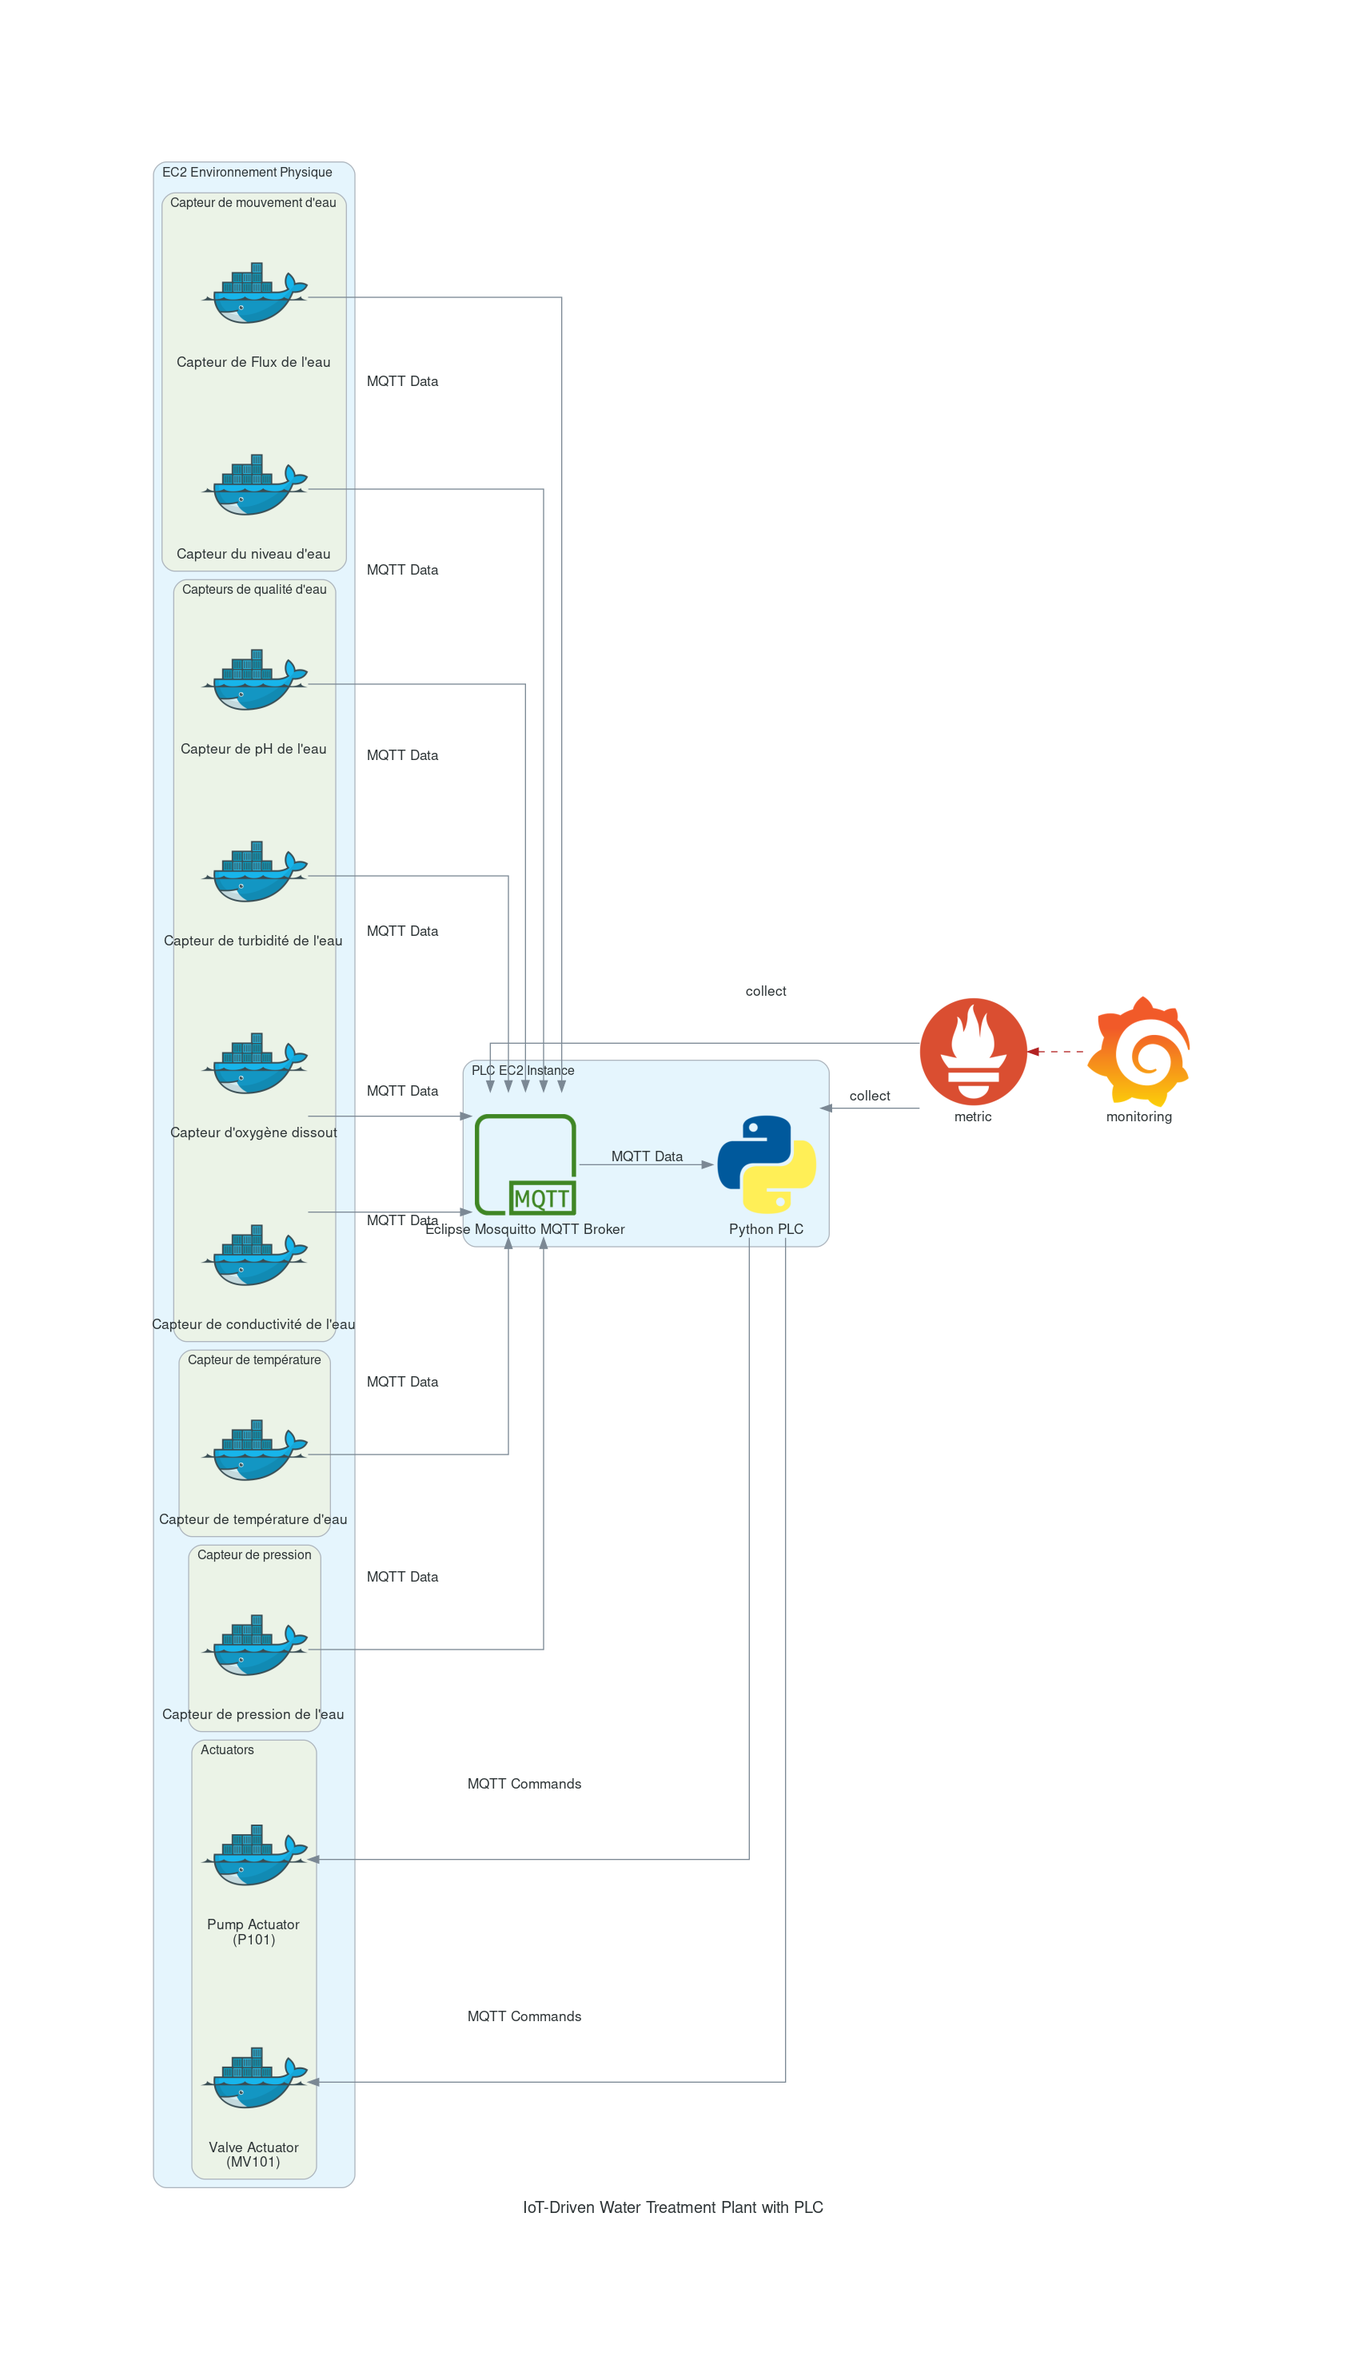
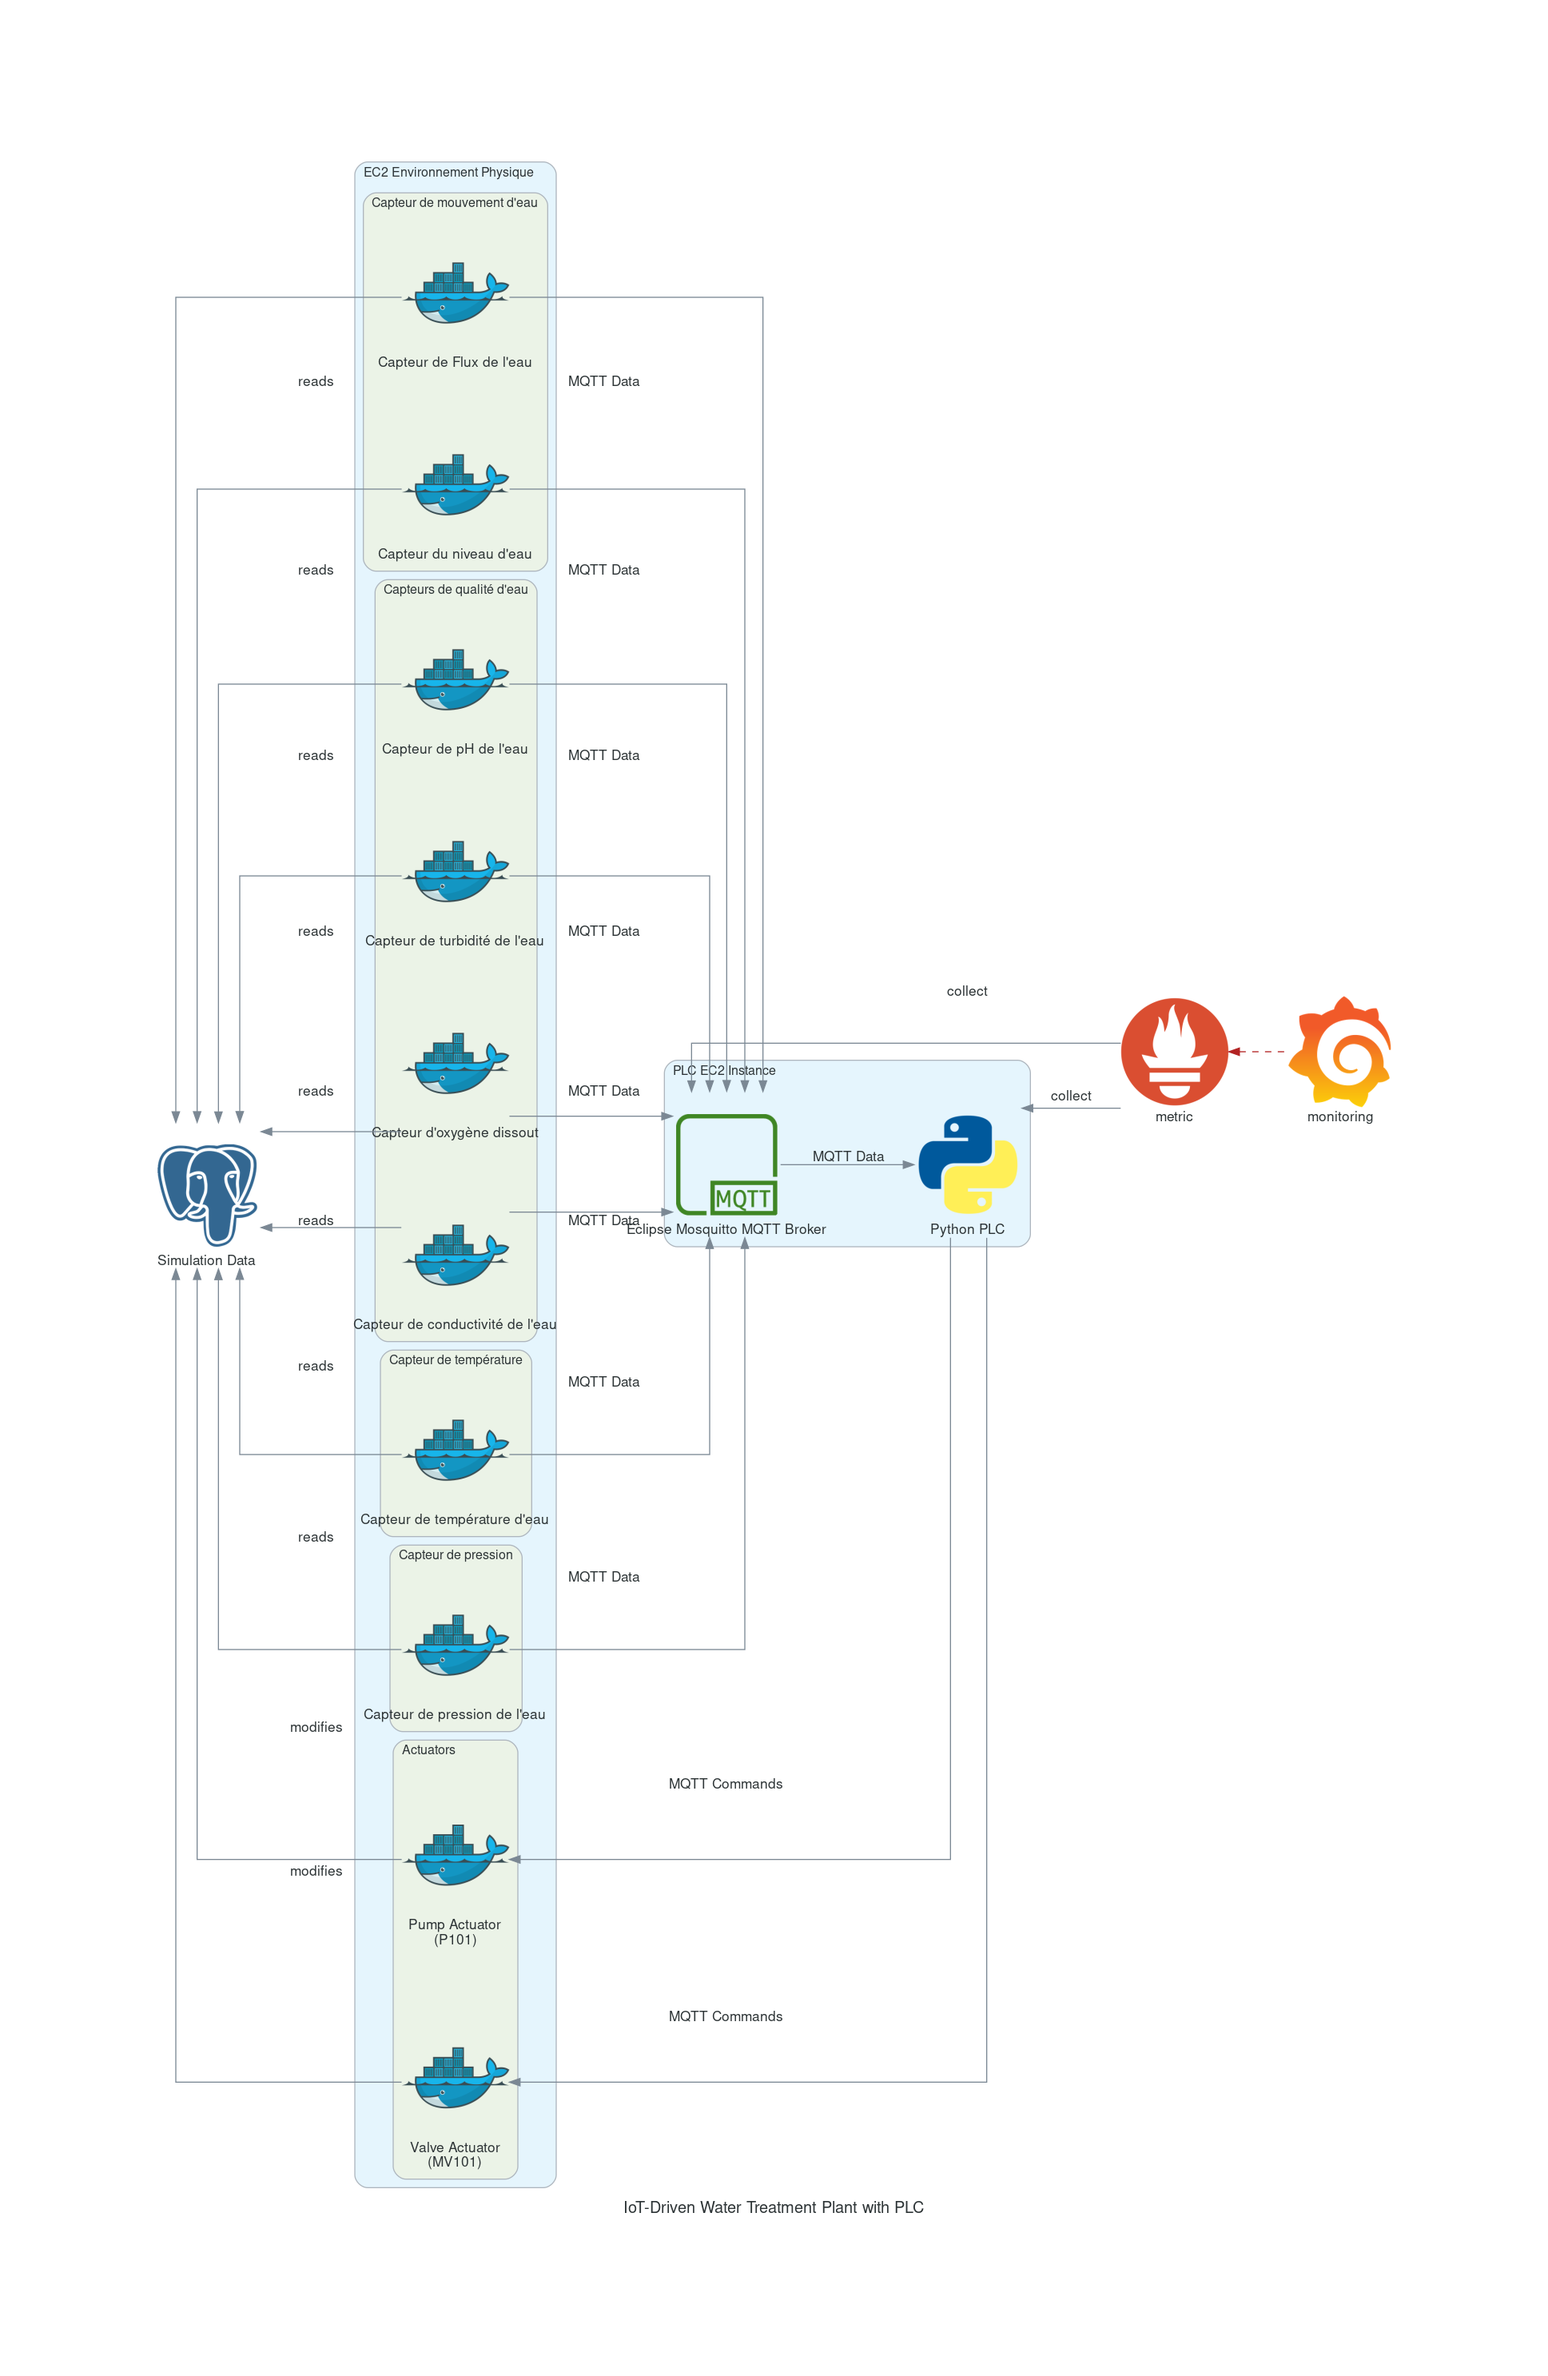
lol

Changed region(s): [[0.0926, 0.0619, 0.895, 0.9284], [0.4012, 0.2166, 0.432, 0.2476]]

diff --git a/diagrams/diagram.py b/diagrams/diagram.py
@@ -5,11 +5,14 @@ from diagrams.aws.iot import IotMqtt
 from diagrams.aws.network import VPC
 from diagrams.programming.language import Python
 from diagrams.onprem.monitoring import Grafana, Prometheus
+from diagrams.onprem.database import Postgresql
 
 with Diagram("IoT-Driven Water Treatment Plant with PLC", show=False, direction="LR"):
 
     metrics = Prometheus("metric")
     metrics << Edge(color="firebrick", style="dashed") << Grafana("monitoring")
+
+    simulation_state_db = Postgresql("Simulation Data")
 
     # PLC EC2 instance with MQTT broker
     with Cluster("PLC EC2 Instance"):
@@ -46,10 +49,12 @@ with Diagram("IoT-Driven Water Treatment Plant with PLC", show=False, direction=
     # Sensor to MQTT Broker (EC2)
     for sensor in sensors:
         sensor >> Edge(label="MQTT Data") >> mqtt_broker
+        simulation_state_db << Edge(label="reads") << sensor
 
     # MQTT Broker to Actuators via Python Application
     for actuator in actuators:
         python_app >> Edge(label="MQTT Commands") >> actuator
+        actuator >> Edge(label="modifies") >> simulation_state_db
 
     mqtt_broker >> Edge(label="MQTT Data") >> python_app
     mqtt_broker << Edge(label="collect") << metrics
